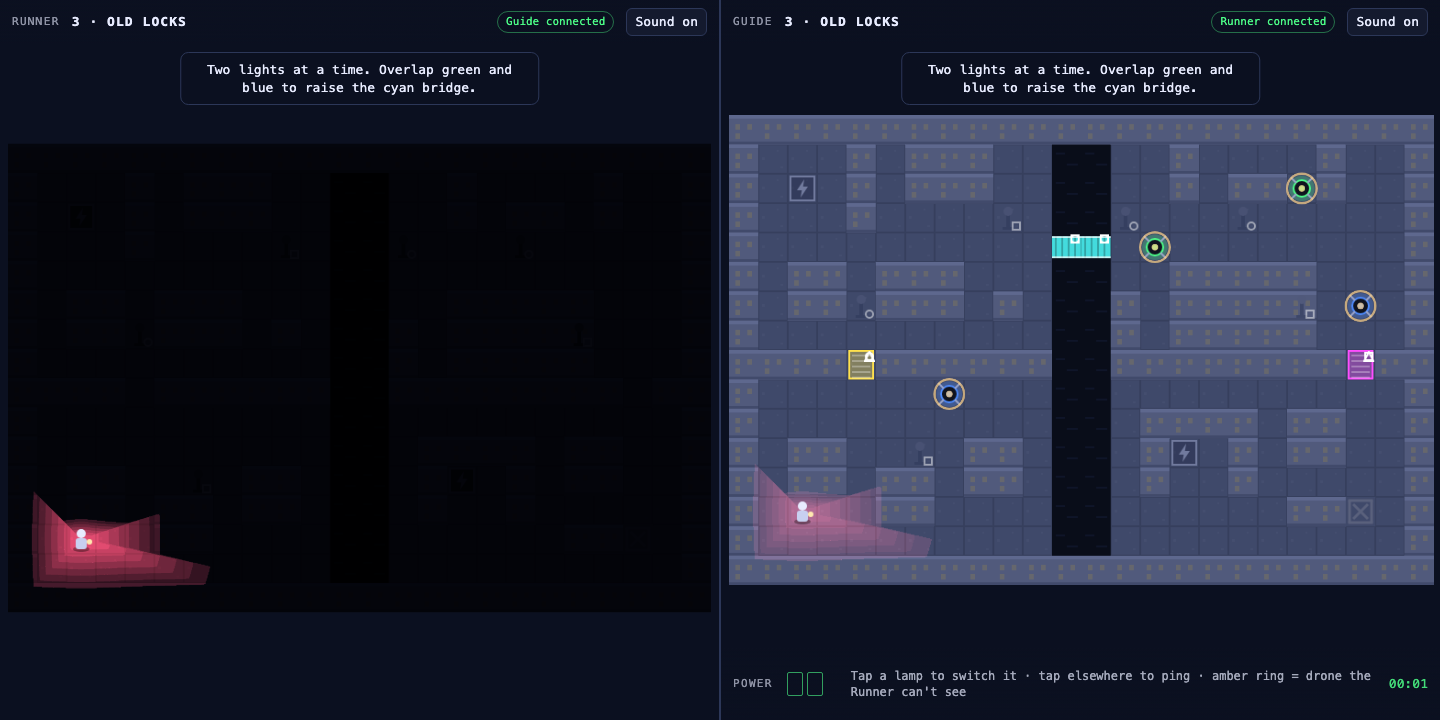
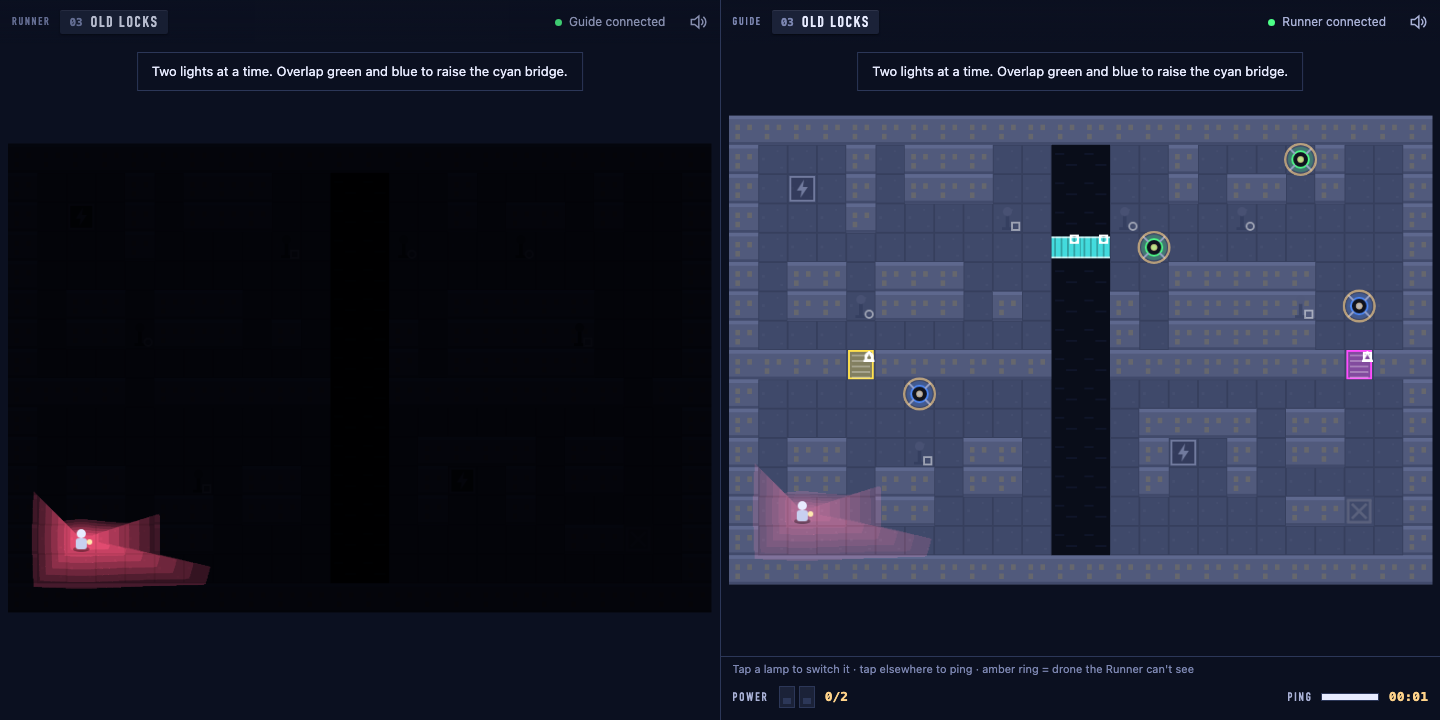
Solver never plans a toggle that strands the runner on a gate
The game sends the runner back when the light under their door or
bridge goes out, and the solver ignored that rule. The autoplayer
died 49 times in district 3's yellow door because of it.

Assisted-By: Claude Opus 5.5

diff --git a/src/shared/level.ts b/src/shared/level.ts
@@ -140,7 +140,7 @@ export type PlanState = { pos: Vec; lightsOn: string[]; powered: string[] };
 
 /**
  * BFS over (runner tile, set of lights on, substations powered). The guide may toggle lights at any
- * time within budget. Drones are timing hazards and are not modelled. Returns the shortest list of
+ * time within budget, except to strand the runner on a gate. Drones are timing hazards and are not modelled. Returns the shortest list of
  * actions (moves and toggles) from `from` (default: district start) to the exit, or null.
  * `maxLights` caps the budget, e.g. 0 to prove the district needs the guide.
  */
@@ -180,18 +180,18 @@ export function plan(level: Level, opts: { maxLights?: number; from?: PlanState 
       const x = pos % w, y = (pos - x) / w;
       const push = (p: number, l: number, s: number, a: Action) => { const k = key(p, l, s); if (!parent.has(k)) { parent.set(k, [here, a]); next.push([p, l, s]); } };
       const budget = Math.min(budgetFor(level, pop(subs)), opts.maxLights ?? Infinity);
+      const lf = lanternAt(x, y);
+      const litWith = (ls: number, at: number) => { let c = lf[at]; for (let i = 0; i < ids.length; i++) if (ls & (1 << i)) c |= fields[i][at]; return c; };
       for (let i = 0; i < ids.length; i++) {
         const bit = 1 << i;
-        if (lights & bit) push(pos, lights & ~bit, subs, { toggle: ids[i] });
+        // Switching off the light that holds up the runner's bridge or door sends them back, so never plan it.
+        if (lights & bit) { if (passable(level, x, y, litWith(lights & ~bit, pos), subs === allSubs)) push(pos, lights & ~bit, subs, { toggle: ids[i] }); }
         else if (pop(lights) < budget) push(pos, lights | bit, subs, { toggle: ids[i] });
       }
-      const lf = lanternAt(x, y);
       for (const [dx, dy] of [[1, 0], [-1, 0], [0, 1], [0, -1]]) {
         const nx = x + dx, ny = y + dy, ni = ny * w + nx;
         if (nx < 0 || ny < 0 || nx >= w || ny >= level.h) continue;
-        let lit = lf[ni];
-        for (let i = 0; i < ids.length; i++) if (lights & (1 << i)) lit |= fields[i][ni];
-        if (!passable(level, nx, ny, lit, subs === allSubs)) continue;
+        if (!passable(level, nx, ny, litWith(lights, ni), subs === allSubs)) continue;
         const si = subIdx.get(ni);
         push(ni, lights, si === undefined ? subs : subs | (1 << si), { move: { x: dx, y: dy } });
       }
